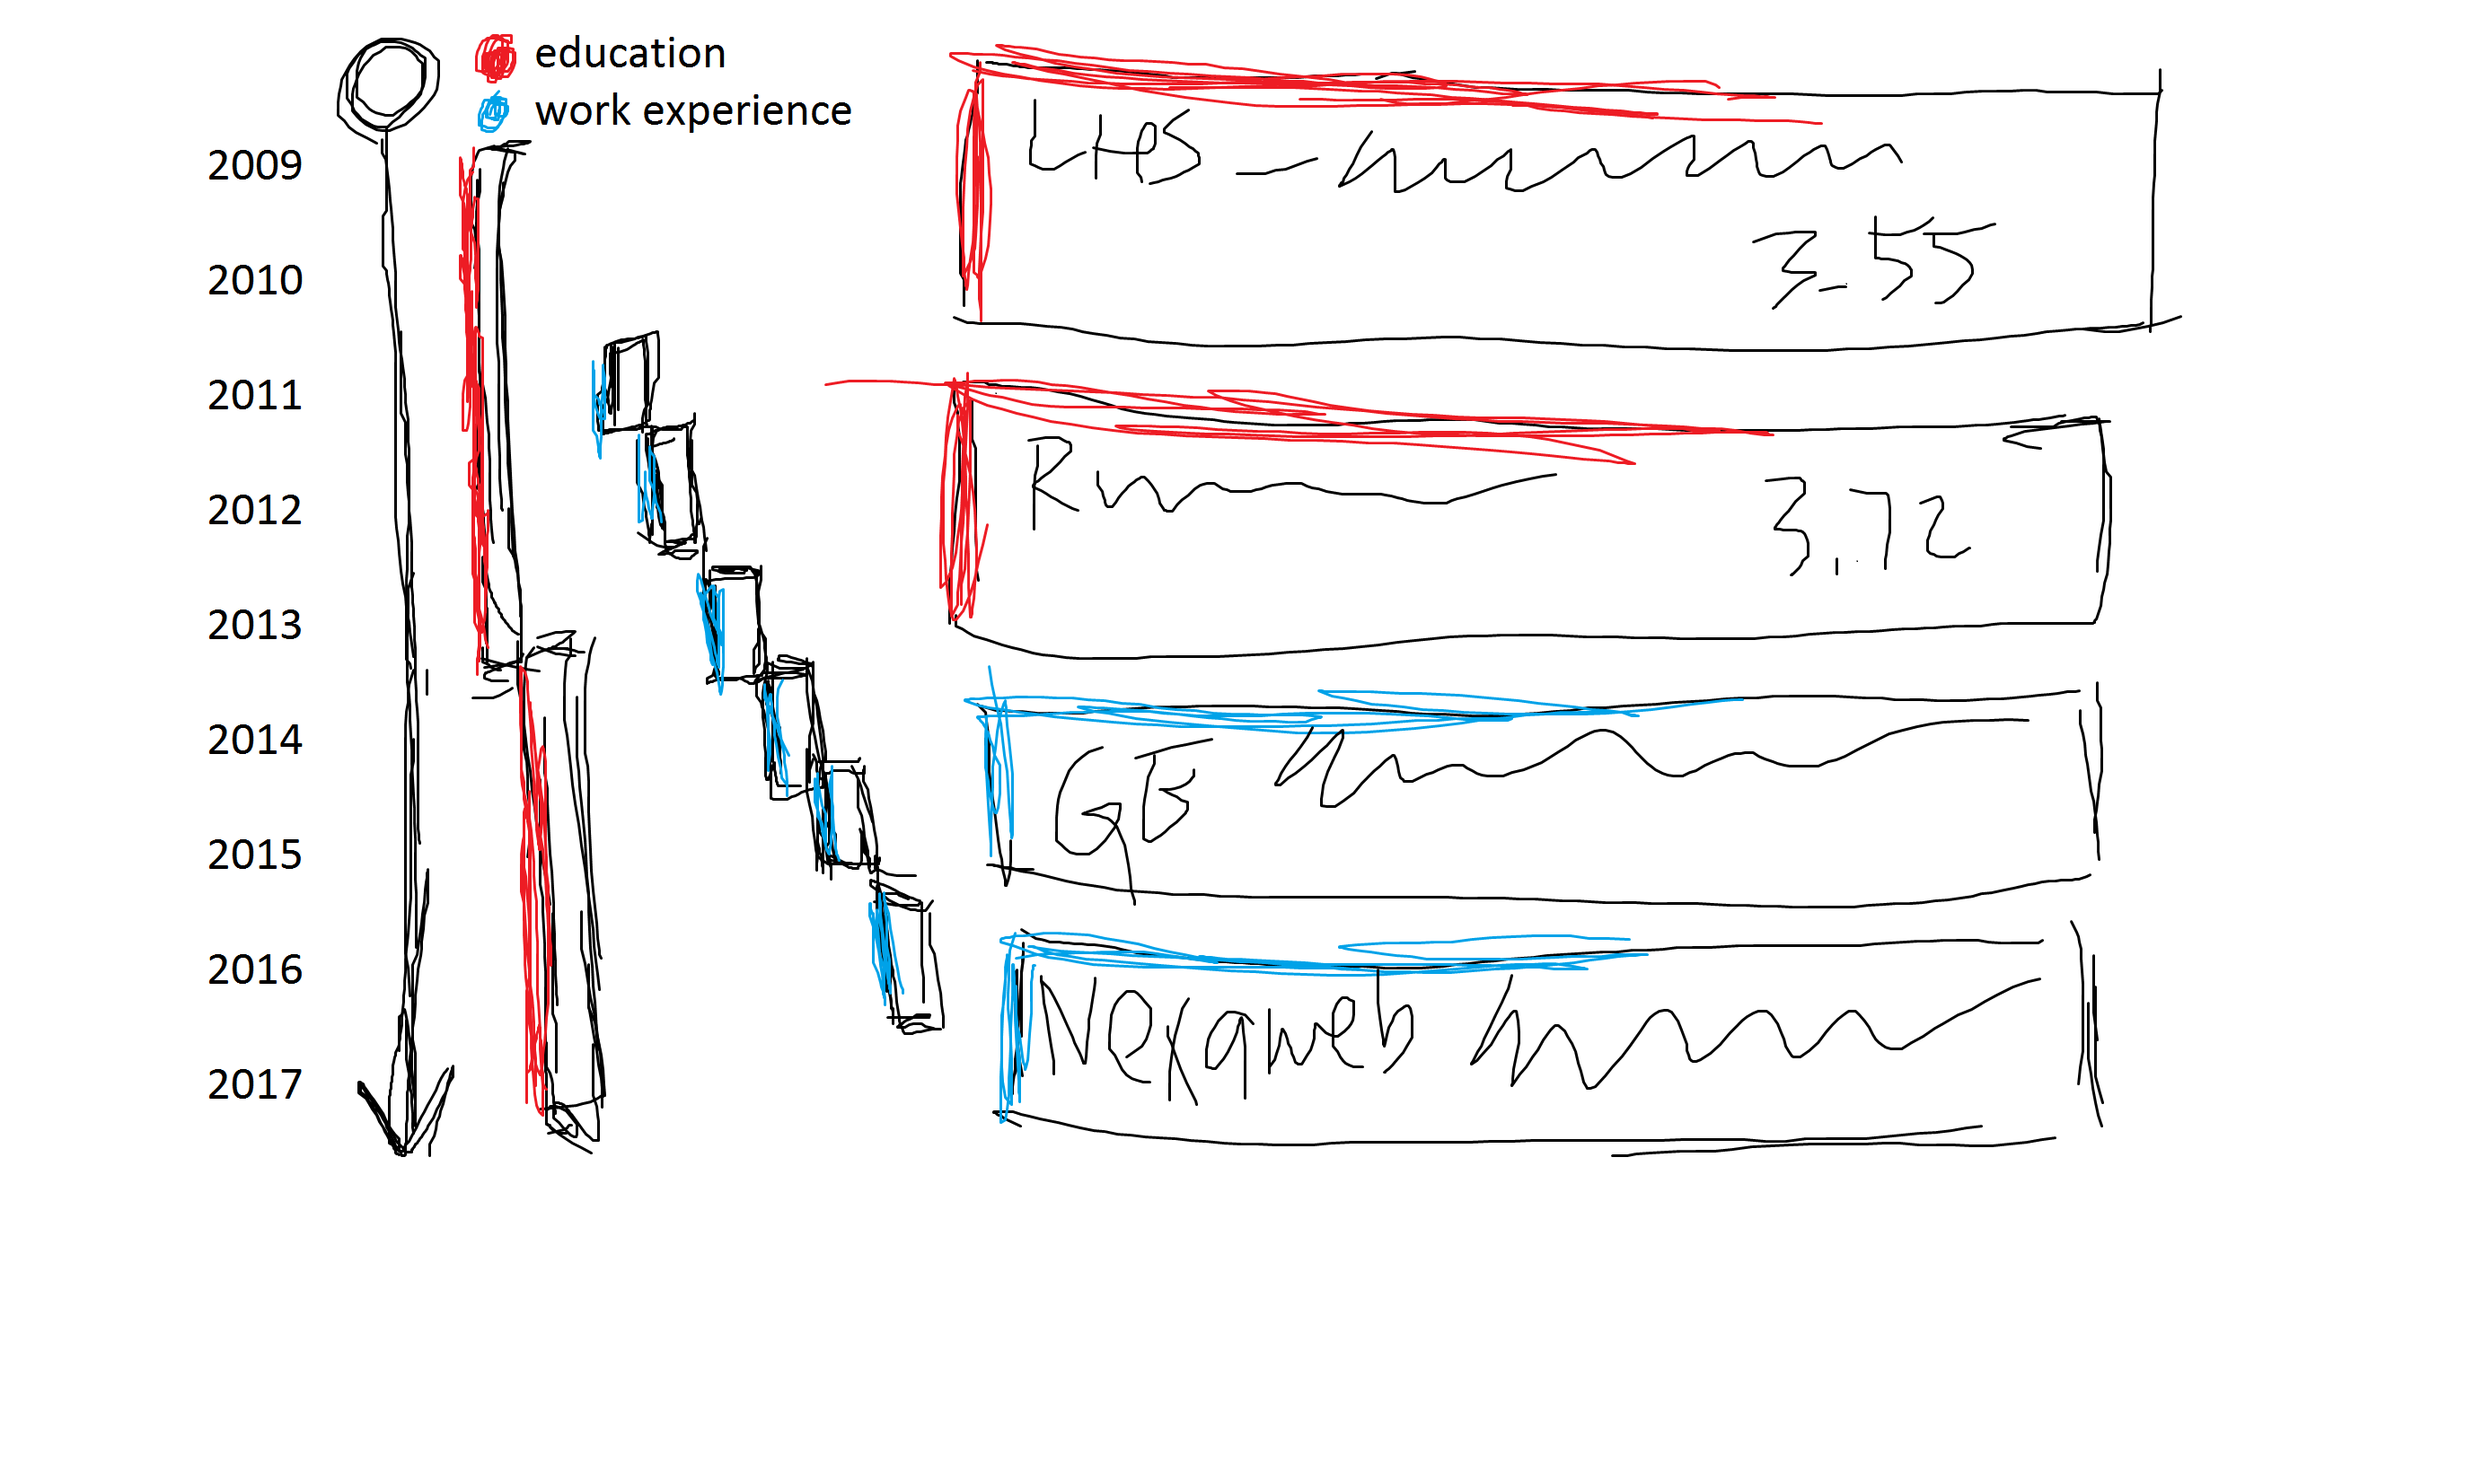
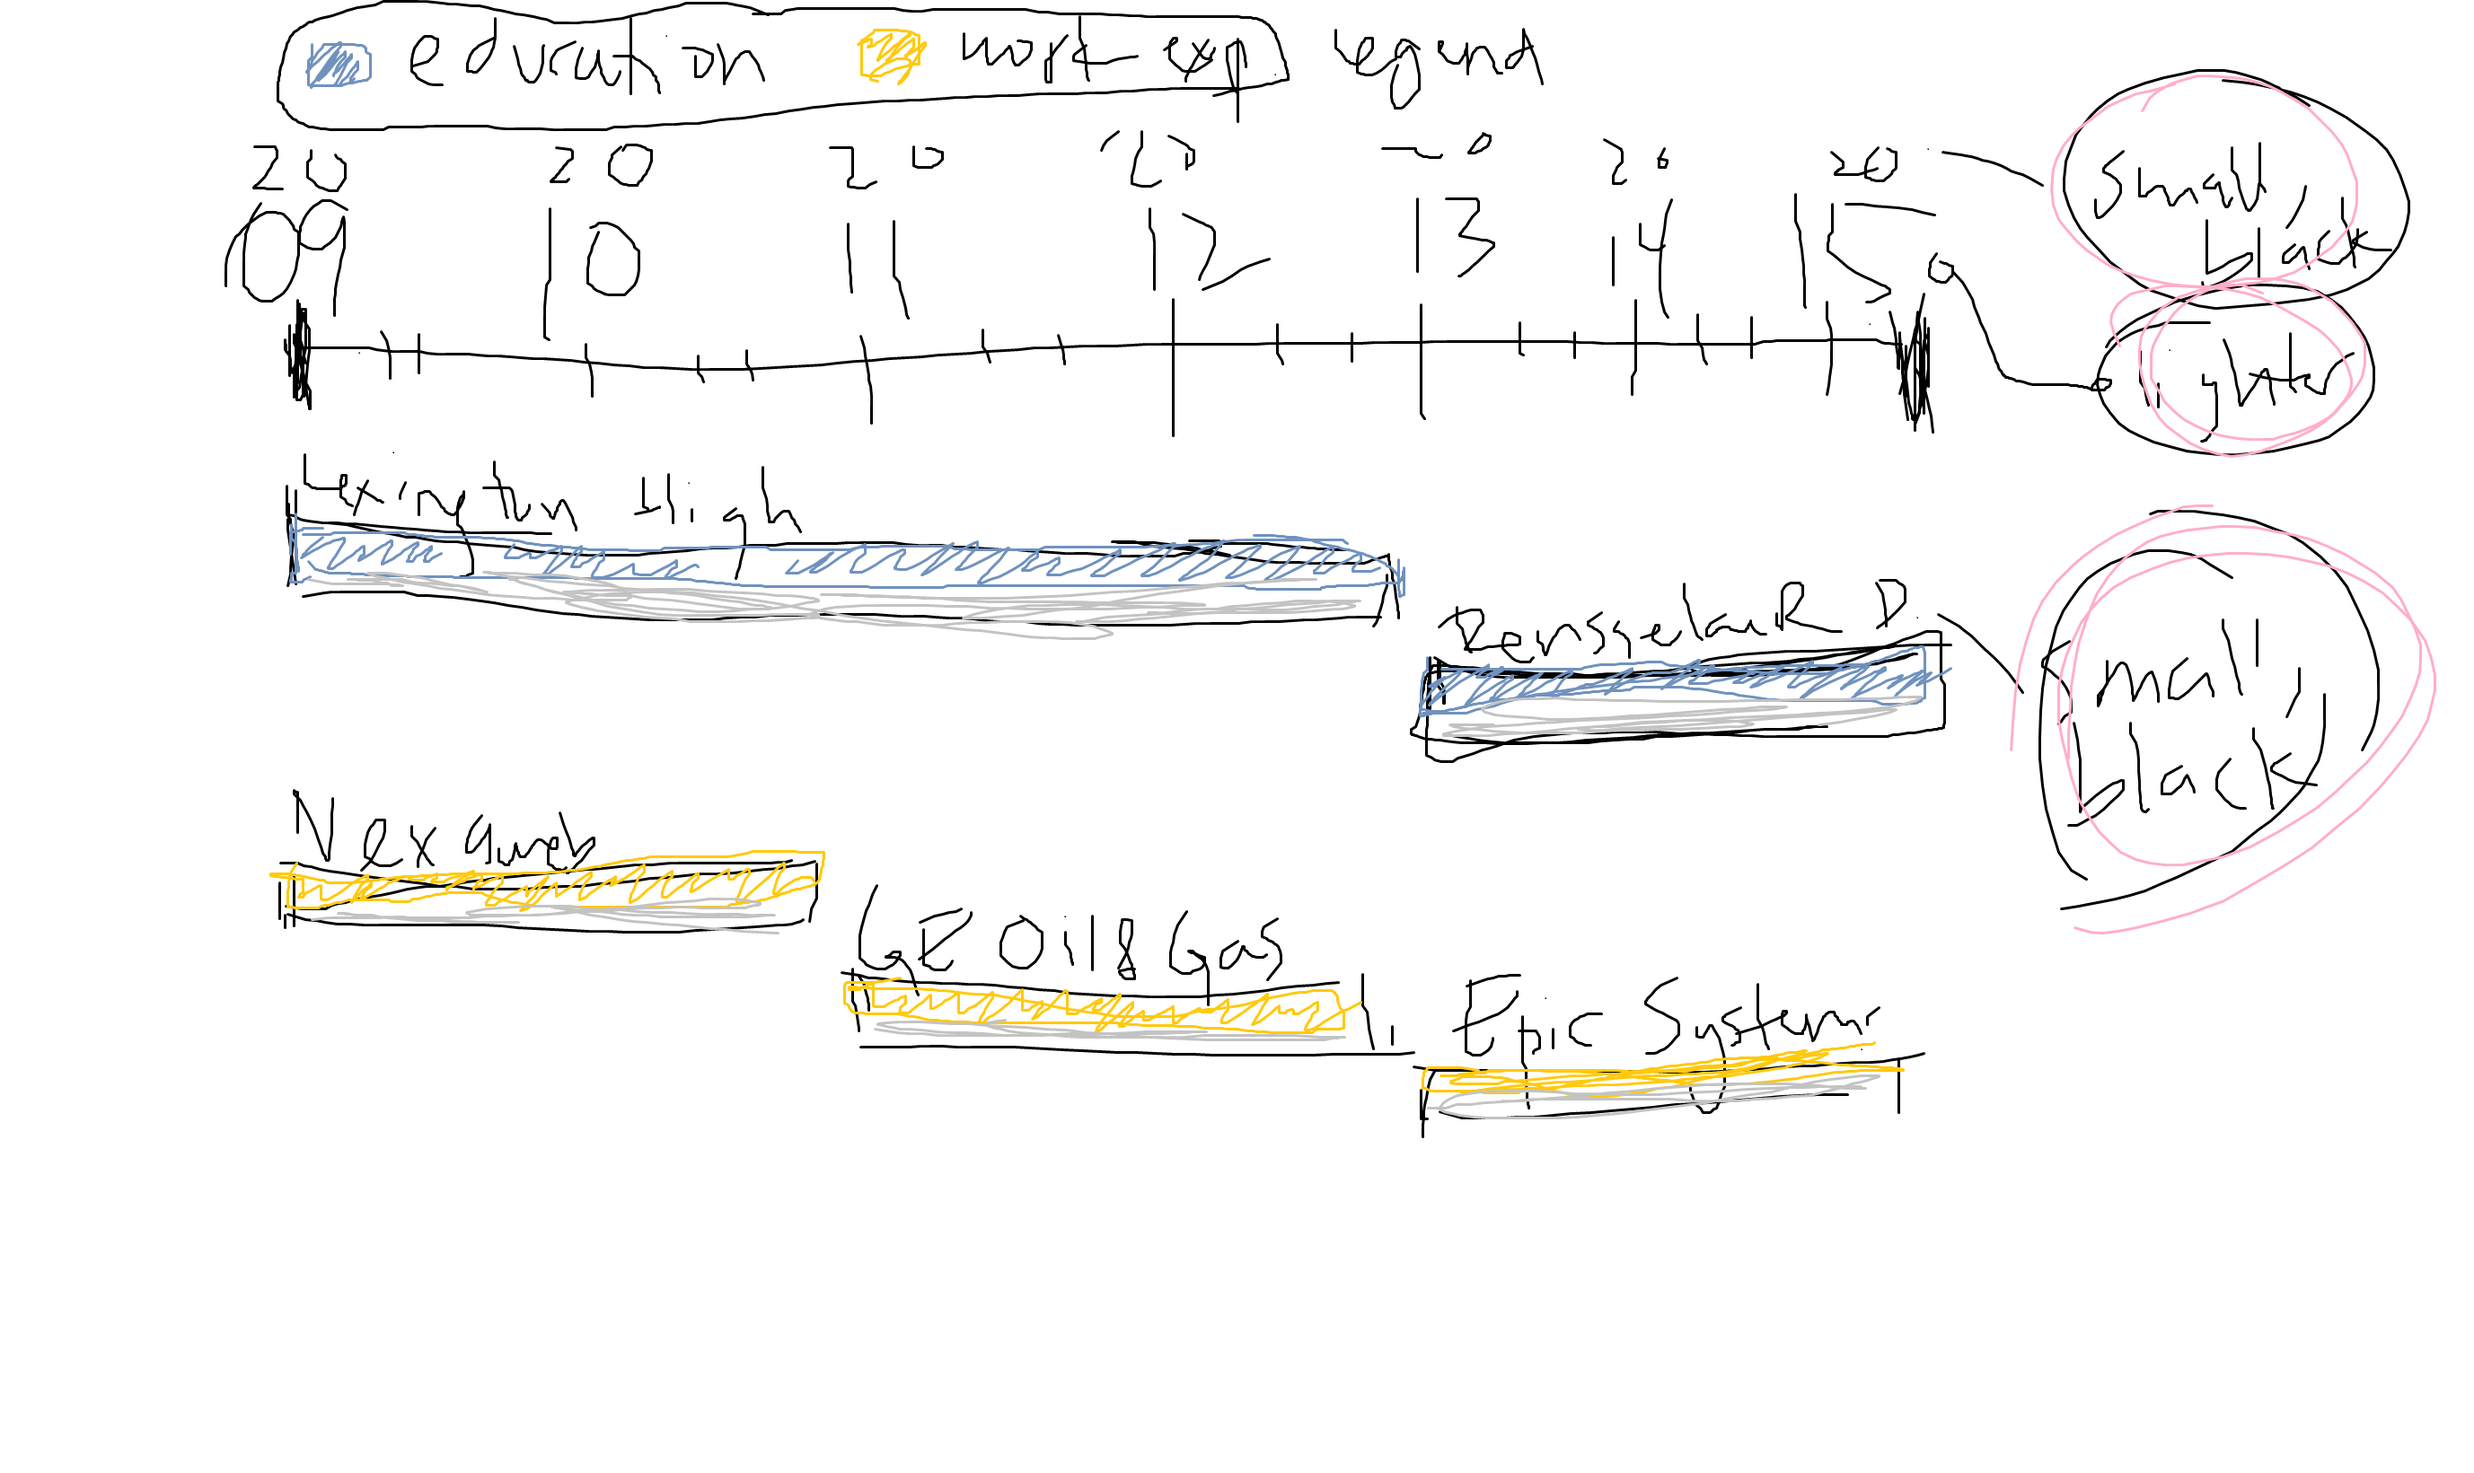
timeline work. maybe going in the right direction?

diff --git a/index.html b/index.html
@@ -121,7 +121,7 @@ var resume_data = [{
 
 //resume bar chart styling
 var resume_svg = d3.select("#resume_svg");
-var top_padding = 20;
+var top_padding = 50;
 resume_svg.style("height",top_padding + resume_data.length*21);
 
 function create_resume_table(obj) {
@@ -163,17 +163,19 @@ for (var i = start_year; i <= end_year; i++) {
 		var x_pos = interpolate_screen((i*360 - smallest_day)/(largest_day-smallest_day));
 		resume_svg.append("line").attr("class", "timeline_line")
 			.attr("style","stroke-width:2px;stroke:black;")
-			.attr("x1",x_pos).attr("y1", "10%")
-			.attr("x2",x_pos).attr("y2","90%");
-		resume_svg.append("text").text(i).attr("x",x_pos).attr("y",0).attr("text-anchor","middle");
-
+			.attr("x1",x_pos).attr("y1", top_padding - 5)
+			.attr("x2",x_pos).attr("y2", top_padding - 15);
+		resume_svg.append("text").text((i-i%100)/100).attr("x",x_pos).attr("y",0).attr("text-anchor","middle")
+			.attr("style","font-size:40px; fill: lightgray;");
+		resume_svg.append("text").text(function() {if (i%100 < 10) return ("0" + i%100); else return i%100;})
+			.attr("style","font-size:40px; font-weight: bold; fill:gray;").attr("x",x_pos).attr("y",30).attr("text-anchor","middle");
 	}
 	if (i*360 + 180 >= smallest_day && i*360 + 180 <= largest_day) {
 		var x_pos = interpolate_screen((i*360 + 180 - smallest_day)/(largest_day-smallest_day));
 		resume_svg.append("line").attr("class", "timeline_line")
 			.attr("style","stroke-width:1px;stroke:black;")
-			.attr("x1",x_pos).attr("y1", "30%")
-			.attr("x2",x_pos).attr("y2","70%");	
+			.attr("x1",x_pos).attr("y1", top_padding - 8)
+			.attr("x2",x_pos).attr("y2", top_padding - 12);	
 	}
 }
 
